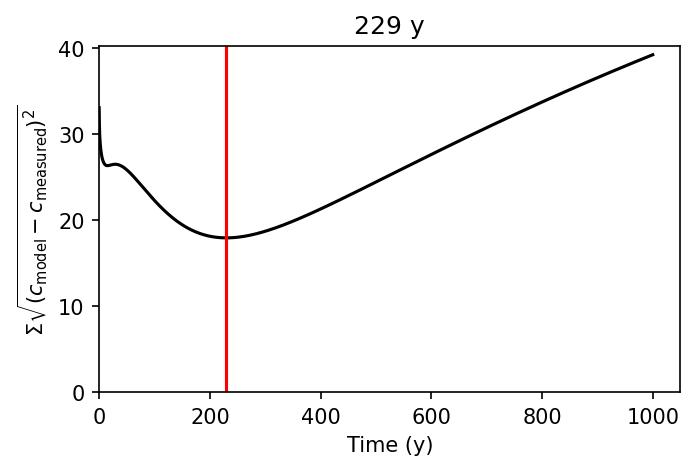
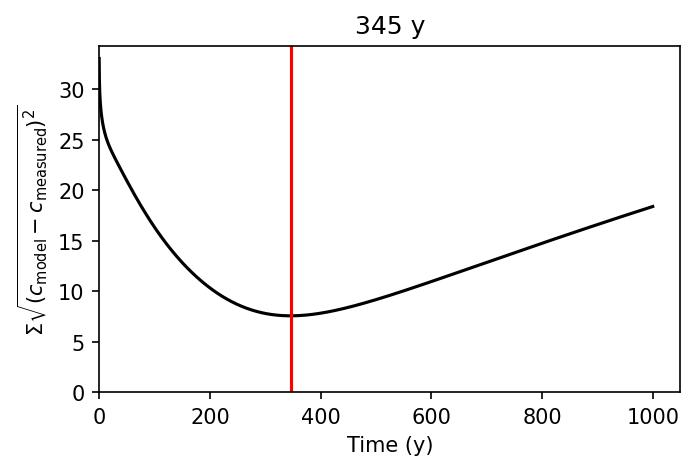
update plotter.py

diff --git a/plotter.py b/plotter.py
@@ -13,6 +13,7 @@ xlabel = config["xlabel"]
 ylabel = config["ylabel"]
 time_unit_name = config["Time unit"]
 time_column_name = "Time (" + time_unit_name + ")"
+bestfit_time = config["Bestfit time"]
 plot1_time = config["Plot1 time"]
 plot2_time = config["Plot2 time"]
 plot3_time = config["Plot3 time"]
@@ -20,6 +21,7 @@ imgfmt = config["Image format"]
 imgres_dpi = config["Image resolution (dpi)"]
 
 df_summary = pd.read_csv(working_dir + "/summary.csv", header=0)
+bestfit_index = (df_summary[time_column_name] - bestfit_time).abs().idxmin()
 plot1_index = (df_summary[time_column_name] - plot1_time).abs().idxmin()
 plot2_index = (df_summary[time_column_name] - plot2_time).abs().idxmin()
 plot3_index = (df_summary[time_column_name] - plot3_time).abs().idxmin()
@@ -38,6 +40,7 @@ equilibrium_ppm = df_preprocessed["Equilibrium "+ element + " (ppm)"].to_numpy()
 
 # load modelling results
 df_model = pd.read_csv(working_dir + "/result.csv", header=0)
+bestfit_ppm = df_model.iloc[:, bestfit_index].to_numpy()
 plot1_ppm = df_model.iloc[:, plot1_index].to_numpy()
 plot2_ppm = df_model.iloc[:, plot2_index].to_numpy()
 plot3_ppm = df_model.iloc[:, plot3_index].to_numpy()
@@ -52,6 +55,11 @@ ax[0].set_ylim(*ylim_An)
 ax[1].plot(measured_distance_um, measured_ppm, "o", c="w", mec="k")
 ax[1].plot(preprocessed_distance_um, initial_ppm, "--", c="k", label="Initial")
 ax[1].plot(preprocessed_distance_um, equilibrium_ppm, "-", c="k", label="Equilibrium")
+
+ax[1].plot(
+    preprocessed_distance_um, bestfit_ppm, "-", c="r",
+    label="Bestfit " + str(round(bestfit_time)) + " " + time_unit_name
+    )
 
 ax[1].plot(
     preprocessed_distance_um, plot1_ppm, "-", c="#4F1167",

diff --git a/fitting.py b/fitting.py
@@ -16,8 +16,10 @@ def fitting(measured, modelled):
 units = Units()
 TIME_UNITS = units.TIME_UNITS
 
+# load configfile
 with open("config.json") as f:
     config = json.load(f)
+
 element = config["Element"]
 time_unit_name = config["Time unit"]
 time_column_name = "Time (" + time_unit_name + ")"
@@ -49,6 +51,7 @@ bestfit_time = df[time_column_name][bestfit_index]
 
 print("Bestfit time: " + str(bestfit_time) + " " + time_unit_name)
 
+# visualise fitting results
 fig, ax = plt.subplots(figsize=(5, 3))
 ax.plot(df[time_column_name], df["Residual"], "-", c="k")
 ax.axvline(x=bestfit_time, c="r")
@@ -58,3 +61,10 @@ ax.set_title(str(int(bestfit_time)) + " " + time_unit_name)
 ax.set_xlabel("Time (" + time_unit_name + ")")
 ax.set_ylabel("$\Sigma{\sqrt{(c_\mathrm{model}-c_\mathrm{measured})^2}}$")
 fig.savefig(working_dir + "/residual." + imgfmt, dpi=imgres_dpi, bbox_inches="tight")
+
+# export bestfit time to config.json
+config["Bestfit time"] = bestfit_time
+update_config = json.dumps(config, indent=4)
+
+with open("config.json", "w") as f:
+    f.write(update_config)
